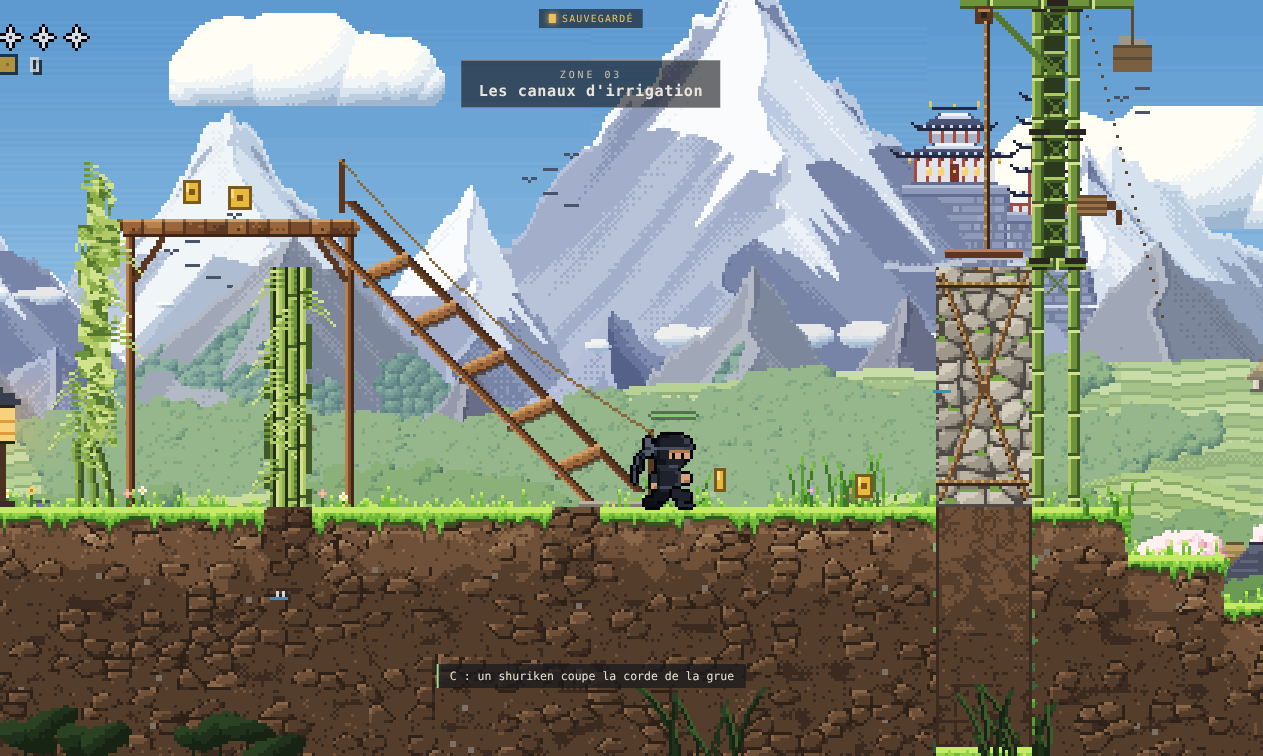
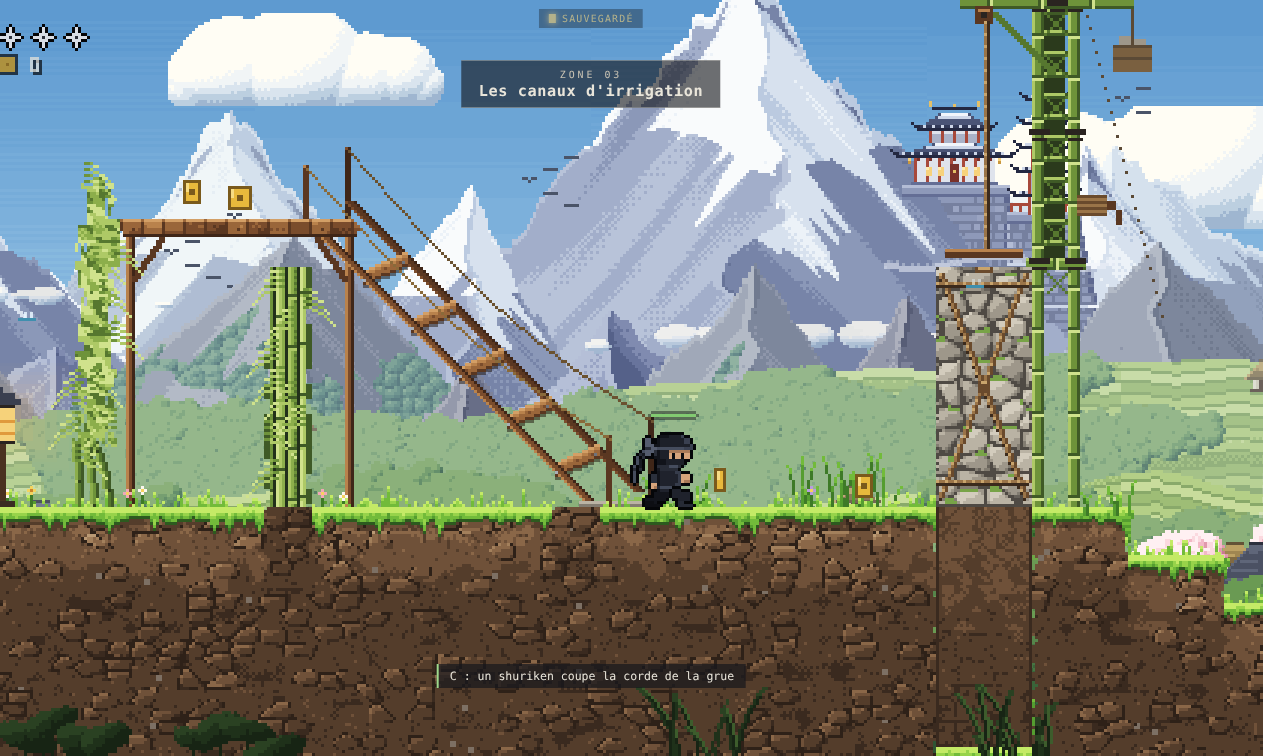
Escalier de la grue : poteaux posés sur la plateforme, main courante des deux côtés
Les poteaux de la main courante descendent jusqu'aux planches de la plateforme
et jusqu'au sol (celui du fond flottait, décalé par la profondeur) ; une
seconde corde court de l'autre côté de l'escalier, derrière les marches.
Test de l'escalier rendu plus robuste (KAGE posé avant chaque saut).

Claude-Session: https://claude.ai/code/session_01A2iwx5pvEypuY4LKpvnPNM

diff --git a/docs/carte-mentale/index.html b/docs/carte-mentale/index.html
@@ -380,7 +380,7 @@ const BRANCHES = [
     files: ['src/game/potager/temple.js', 'src/game/potager/live.js', 'src/game/level.js', 'src/game/chapters/potager.js#L604'],
     links: [['GIF : la porte s\'ouvre', 'docs/potager/porte_temple.gif'], ['GIF : KAGE entre', 'docs/potager/porte_entree.gif'], ['Fermée, s\'ouvre, ouverte', 'docs/potager/porte_temple.png'], ['La forêt par la porte', 'docs/potager/porte_foret.png'], ['Les autres intérieurs essayés', 'docs/potager/porte_interieurs.png']], see: ['pot-z09', 'ennemi-karasu', 'monde-ch2'] },
   { id: 'pot-grue', t: 'La grue de bambou', s: 'fait', d: 'Énigme : dash, sauts muraux, shuriken',
-    txt: "Au bout des canaux, un mur de blocs de pierre ficelés en croix pend à une grue de bambou et bouche le passage ; une fosse l'attend dessous. Le mât de la grue, juste après la fosse, est une tour de bambou au treillis serré : on ne passe pas par-dessus les blocs (l'ancien surplomb rocheux, qui semblait flotter, a disparu) ; en bas, on passe entre ses montants. On se glisse au dash sous un premier mur de bambous, on monte en sauts muraux jusqu'à la plateforme de la grue ; la grue est loin, à 12 cases de vide (ni le sabre, ni un saut, ni un dash n'y mènent), et seul un shuriken lancé du bout de la plateforme coupe la corde ; un escalier de bois de cinq marches, vu de trois quarts (deux limons en biais, des marches clouées de l'un à l'autre, sans contremarche), ramène du sol à la plateforme (pour qui a sauté trop tôt) : les blocs tombent et comblent la fosse à ras du sol. Depuis le sol, la corde est hors de portée. Grue coupée sauvegardée (cranes).",
+    txt: "Au bout des canaux, un mur de blocs de pierre ficelés en croix pend à une grue de bambou et bouche le passage ; une fosse l'attend dessous. Le mât de la grue, juste après la fosse, est une tour de bambou au treillis serré : on ne passe pas par-dessus les blocs (l'ancien surplomb rocheux, qui semblait flotter, a disparu) ; en bas, on passe entre ses montants. On se glisse au dash sous un premier mur de bambous, on monte en sauts muraux jusqu'à la plateforme de la grue ; la grue est loin, à 12 cases de vide (ni le sabre, ni un saut, ni un dash n'y mènent), et seul un shuriken lancé du bout de la plateforme coupe la corde ; un escalier de bois de cinq marches, vu de trois quarts (deux limons en biais, des marches clouées de l'un à l'autre, sans contremarche, une main courante de corde de chaque côté), ramène du sol à la plateforme (pour qui a sauté trop tôt) : les blocs tombent et comblent la fosse à ras du sol. Depuis le sol, la corde est hors de portée. Grue coupée sauvegardée (cranes).",
     files: ['src/game/chapters/potager.js', 'src/game/level.js', 'src/game/potager/live.js', 'src/game/potager/props.js'], links: [['GIF : la grue', 'docs/potager/grue_bambou.gif'], ['Le mât en tour', 'docs/potager/grue_mat.png'], ['L\'escalier de retour', 'docs/potager/grue_escalier.png']], see: ['pot-z03', 'kage-shuriken'] },
   { id: 'pot-pilotis', t: 'Plateformes sur pilotis', s: 'fait', d: 'Cultivées, à plusieurs niveaux, échelles',
     txt: "Des plateformes de bois légères (« - », traversables par-dessous) : le jardin sur pilotis des canaux, les plateformes de cueillette du verger, la pépinière en étages du comptoir du voyageur, comme la plateforme de récolte près de la rizière. Cultures et pots dessus, échelles entre les niveaux, ryō en haut. Les poteaux montent jusque sous les planches (elles ne font que 6 px d'épaisseur), avec leurs jambes de force. Les échelles partent du bout de la plateforme du dessous et s'accrochent au début de celle du dessus (Builder.ladder).",

diff --git a/src/game/potager/props.js b/src/game/potager/props.js
@@ -646,6 +646,17 @@ const PAINT = {
         b.r(x - 1, y, 4, 1, light ? C.WOOD[2] : C.WOOD[1]).p(x - 1, y, light ? C.WOOD[4] : C.WOOD[2]).p(x + 2, y, C.WOOD[0]);
       }
     };
+    // main courante de corde, des deux côtés : des poteaux plantés sur la plateforme
+    // (posés sur ses planches) et au pied ; celle du fond d'abord, derrière tout
+    const footX = Math.round(foot[0]);
+    const handrail = (ox, oy, dark) => {
+      const tx = Math.round(top[0]) + ox - 1, ty = top[1] + oy, fx = footX + ox + 4, fy = footY + oy;
+      // (les poteaux descendent jusqu'aux planches et jusqu'au sol, même celui du fond)
+      b.r(tx, ty - 18, 2, top[1] + 1 - (ty - 18), dark ? C.WOOD[0] : C.WOOD[1]).p(tx, ty - 18, C.WOOD[dark ? 2 : 4]);
+      b.r(fx, fy - 24, 2, footY - (fy - 24), dark ? C.WOOD[0] : C.WOOD[1]).p(fx, fy - 24, C.WOOD[dark ? 2 : 4]);
+      rope(b, tx + 1, ty - 17, fx + 1, fy - 23, 8, dark ? '#6b5230' : '#8a6a3a');
+    };
+    handrail(D[0], D[1], true);
     rail(D[0], D[1], false);                                              // le limon du fond
     // les marches : des planches qui vont d'un limon à l'autre (dessus clair, chant, ombre)
     for (const [x0, y0] of P) {
@@ -659,12 +670,9 @@ const PAINT = {
     }
     rail(0, 0, true);                                                     // le limon de devant, par-dessus le bout des marches
     for (const [x0, y0] of P) b.p(x0, y0 + 1, '#a9aeb6');                 // clous sur le limon de devant
-    // pied : une pierre plate ; main courante de corde, d'un poteau à l'autre
-    b.r(Math.round(foot[0]) - 5, footY - 2, 22, 2, C.STONE[2]).r(Math.round(foot[0]) - 5, footY - 2, 22, 1, C.STONE[4]);
-    const px = Math.round(foot[0]) + D[0] + 4, tx0 = Math.round(top[0]) + D[0] - 3;
-    b.r(px, footY - 26, 2, 26, C.WOOD[1]).p(px, footY - 26, C.WOOD[4]);
-    b.r(tx0, top[1] - 20, 2, 18, C.WOOD[1]).p(tx0, top[1] - 20, C.WOOD[4]);
-    rope(b, tx0 + 1, top[1] - 19, px + 1, footY - 25, 8, '#8a6a3a');
+    // pied : une pierre plate ; puis la main courante de devant
+    b.r(footX - 5, footY - 2, 22, 2, C.STONE[2]).r(footX - 5, footY - 2, 22, 1, C.STONE[4]);
+    handrail(0, 0, false);
   },
 
   ladder(b, p, X, Y) {

diff --git a/docs/REPRISE.md b/docs/REPRISE.md
@@ -230,7 +230,7 @@ L'utilisateur a trouvé le portail « magnifique » et demandé six retouches de
 
 1. **KAGE entre vraiment dans la porte** : au seuil de la porte ouverte (`startEntering`, `main.js`), il n'est plus dessiné à sa place ; la porte le dessine entre le couloir et la façade (`TempleGate.inside`) : il s'enfonce dans le passage en marchant (60 px de profondeur, 1,8 s), rapetisse avec la perspective (`scaleAt`), passe derrière les vantaux et le pilier et s'efface ; puis l'écran de fin. Il ne peut plus passer devant les vantaux. GIF : `docs/potager/porte_entree.gif`.
 2. **Le dojo final du lointain** (avant-goût du chapitre 7, `paintDojo` dans `backdrop.js`) : agrandi et bien plus majestueux — deux terrasses sur de grands murs de pierre en gradins enneigés (ishigaki, pierres inégales), la grande salle au double toit aux coins relevés (piliers vermillon, fenêtres et lanternes allumées, ornements d'or), une pagode à cinq étages coiffée d'or, de la neige sur les toits, un escalier en lacets bordé de lanternes jusqu'à un torii, une écharpe de brume. Placé plus bas sur le flanc du Mont Kagero pour rester dans l'image. Image : `docs/potager/dojo_final.png`.
-3. **La grue sans rocher flottant** : le surplomb rocheux est supprimé ; le **mât de la grue** est déplacé juste après la fosse et devient une **tour de bambou** (deux montants, treillis serré de bambous ligaturés en haut, linteau ; `towerY`, dessin dans `Live.crane`) ; des cases `%` invisibles le rendent infranchissable du haut de l'image jusqu'au-dessus du passage : par la plateforme de la grue, on bute contre lui (on ne passe pas par-dessus les blocs) ; il faut couper la corde, redescendre et passer en bas, entre ses montants, une fois la fosse comblée. Test dédié. Puis, à la demande de l'utilisateur (« on peut juste sauter dessus »), la plateforme de la grue a été raccourcie et la grue éloignée : **12 cases de vide** entre le bout de la plateforme et les blocs. le sabre ne touche jamais la corde (`Level.cutRope` n'est appelé que par `shuriken.js`) ; le shuriken (portée 10 cases) la coupe depuis le bout de la plateforme, debout ou en sautant. Test dédié. Enfin, pour le joueur débutant qui saute de la plateforme avant d'avoir compris le shuriken, un **escalier de bois raide, à claire-voie** (comme une échelle) ramène du sol à la plateforme sans refaire les sauts muraux : cinq marches `-` (traversables par-dessous, une case plus bas à chaque fois), peintes par le décor `stair` (`props.js`), vu de trois quarts comme la porte du temple : deux limons en biais séparés par la profondeur, des marches de planche qui vont de l'un à l'autre, clouées sur les deux, sans contremarche, une main courante de corde ; les cases de marche ont le style `tread`, invisible dans `tiles.js`. La grue a été éloignée d'une case de plus (12 cases de vide, plateau de l'énigme allongé de 2 cases) : depuis les marches, sprint, saut et dash ne mènent pas sur les blocs (au mieux 1,5 case avant) ; le shuriken coupe la corde depuis la dernière case de la plateforme. Test dédié. Image : `docs/potager/grue_mat.png`.
+3. **La grue sans rocher flottant** : le surplomb rocheux est supprimé ; le **mât de la grue** est déplacé juste après la fosse et devient une **tour de bambou** (deux montants, treillis serré de bambous ligaturés en haut, linteau ; `towerY`, dessin dans `Live.crane`) ; des cases `%` invisibles le rendent infranchissable du haut de l'image jusqu'au-dessus du passage : par la plateforme de la grue, on bute contre lui (on ne passe pas par-dessus les blocs) ; il faut couper la corde, redescendre et passer en bas, entre ses montants, une fois la fosse comblée. Test dédié. Puis, à la demande de l'utilisateur (« on peut juste sauter dessus »), la plateforme de la grue a été raccourcie et la grue éloignée : **12 cases de vide** entre le bout de la plateforme et les blocs. le sabre ne touche jamais la corde (`Level.cutRope` n'est appelé que par `shuriken.js`) ; le shuriken (portée 10 cases) la coupe depuis le bout de la plateforme, debout ou en sautant. Test dédié. Enfin, pour le joueur débutant qui saute de la plateforme avant d'avoir compris le shuriken, un **escalier de bois raide, à claire-voie** (comme une échelle) ramène du sol à la plateforme sans refaire les sauts muraux : cinq marches `-` (traversables par-dessous, une case plus bas à chaque fois), peintes par le décor `stair` (`props.js`), vu de trois quarts comme la porte du temple : deux limons en biais séparés par la profondeur, des marches de planche qui vont de l'un à l'autre, clouées sur les deux, sans contremarche, une main courante de corde de chaque côté (poteaux posés sur la plateforme et au sol) ; les cases de marche ont le style `tread`, invisible dans `tiles.js`. La grue a été éloignée d'une case de plus (12 cases de vide, plateau de l'énigme allongé de 2 cases) : depuis les marches, sprint, saut et dash ne mènent pas sur les blocs (au mieux 1,5 case avant) ; le shuriken coupe la corde depuis la dernière case de la plateforme. Test dédié. Image : `docs/potager/grue_mat.png`.
 4. **Passages à glissade** : KAGE glisse à 20-21 px de haut (agrandi de 20 %) dans des passages de 16 px ; le bas des feuillages suspendus (`canopyColor`) et de l'étagère renversée (`shelfColor`) est remonté d'environ 6 px (bord déchiqueté), les feuilles qui pendaient dans le passage sont raccourcies : sa tête n'est plus dans les feuilles. Les collisions ne changent pas. Image : `docs/potager/glissade_feuillage.png`.
 5. **Échelles** : elles partent du bout de la plateforme du dessous et s'accrochent au début de celle du dessus (`Builder.ladder(bx, tx, rangée, hauteur)`, échelle penchée dessinée par `ladder` avec `bx`/`tx`) : jardin sur pilotis, plateformes de cueillette, pépinière. Image : `docs/potager/echelles_pepiniere.png`.
 6. **Toit de la serre** : 7 ryō sur le faîtage (on y monte depuis le bout de la poutre de charpente), pour pousser à s'aventurer tout en haut.
